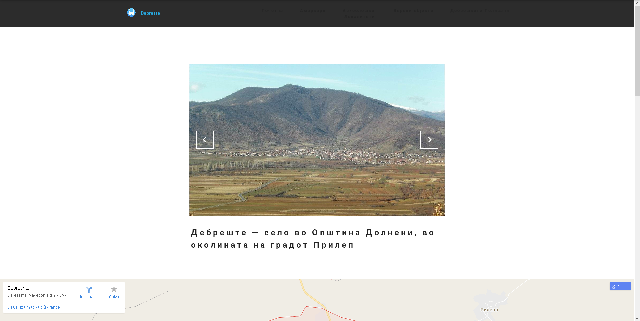
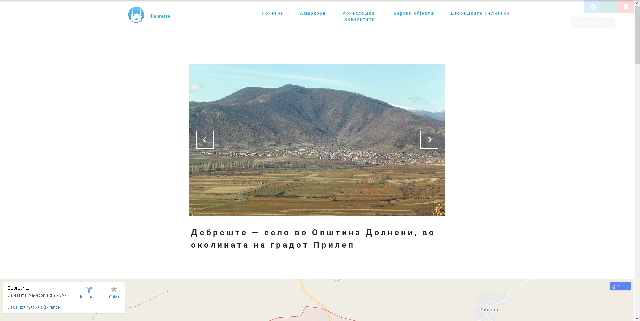
BlueLetters

Changed region(s): [[0.0, 0.0, 1.0, 0.0935], [0.9688, 0.1869, 1.0, 0.3115]]

diff --git a/index.html b/index.html
@@ -37,7 +37,7 @@
                 <div class="mbr-navbar__column mbr-navbar__menu">
                     <nav class="mbr-navbar__menu-box mbr-navbar__menu-box--inline-right">
                         <div class="mbr-navbar__column">
-                            <ul class="mbr-navbar__items mbr-navbar__items--right float-left mbr-buttons mbr-buttons--freeze mbr-buttons--right btn-decorator mbr-buttons--active mbr-buttons--only-links"><li class="mbr-navbar__item"><a class="mbr-buttons__link btn text-black" href="index.html">Почетна</a></li> <li class="mbr-navbar__item"><a class="mbr-buttons__link btn text-black" href="Amarkord.html">Амаркорд</a></li> <li class="mbr-navbar__item"><a class="mbr-buttons__link btn text-black" href="Arheoloski.html">Археолошки <br>Локалитети</a></li> <li class="mbr-navbar__item"><a class="mbr-buttons__link btn text-black" href="VerskiObj.html">Верски објекти</a></li> <li class="mbr-navbar__item"><a class="mbr-buttons__link btn text-black" href="DebreskiPelivani.html">Дебрешките Пеливани</a></li> </ul>                            
+                            <ul class="mbr-navbar__items mbr-navbar__items--right float-left mbr-buttons mbr-buttons--freeze mbr-buttons--right btn-decorator mbr-buttons--active mbr-buttons--only-links"><li class="mbr-navbar__item"><a class="mbr-buttons__link btn text-info" href="index.html">Почетна</a></li> <li class="mbr-navbar__item"><a class="mbr-buttons__link btn text-info" href="Amarkord.html">Амаркорд</a></li> <li class="mbr-navbar__item"><a class="mbr-buttons__link btn text-info" href="Arheoloski.html">Археолошки <br>Локалитети</a></li> <li class="mbr-navbar__item"><a class="mbr-buttons__link btn text-info" href="VerskiObj.html">Верски објекти</a></li> <li class="mbr-navbar__item"><a class="mbr-buttons__link btn text-info" href="DebreskiPelivani.html">Дебрешките Пеливани</a></li> </ul>                            
                             
                         </div>
                     </nav>
@@ -47,7 +47,7 @@
     </div>
 </section>
 
-<section class="engine"><a rel="external" href="https://mobirise.com">mobirise.com</a></section><section class="mbr-slider mbr-section mbr-section--no-padding carousel slide mbr-after-navbar" data-ride="carousel" data-wrap="true" data-interval="5000" id="slider2-1">
+<section class="engine"><a rel="external" href="https://mobirise.com">https://mobirise.com/</a></section><section class="mbr-slider mbr-section mbr-section--no-padding carousel slide mbr-after-navbar" data-ride="carousel" data-wrap="true" data-interval="5000" id="slider2-1">
     <div class="mbr-section__container container article-slider mbr-section__container--first">
         <div class=" col-sm-8 col-sm-offset-2">
             

diff --git a/VerskiObj.html b/VerskiObj.html
@@ -34,7 +34,7 @@
                 <div class="mbr-navbar__column mbr-navbar__menu">
                     <nav class="mbr-navbar__menu-box mbr-navbar__menu-box--inline-right">
                         <div class="mbr-navbar__column">
-                            <ul class="mbr-navbar__items mbr-navbar__items--right float-left mbr-buttons mbr-buttons--freeze mbr-buttons--right btn-decorator mbr-buttons--active mbr-buttons--only-links"><li class="mbr-navbar__item"><a class="mbr-buttons__link btn text-black" href="index.html">Почетна</a></li> <li class="mbr-navbar__item"><a class="mbr-buttons__link btn text-black" href="Amarkord.html">Амаркорд</a></li> <li class="mbr-navbar__item"><a class="mbr-buttons__link btn text-black" href="Arheoloski.html">Археолошки <br>Локалитети</a></li> <li class="mbr-navbar__item"><a class="mbr-buttons__link btn text-black" href="VerskiObj.html">Верски објекти</a></li> <li class="mbr-navbar__item"><a class="mbr-buttons__link btn text-black" href="DebreskiPelivani.html">Дебрешките Пеливани</a></li> </ul>                            
+                            <ul class="mbr-navbar__items mbr-navbar__items--right float-left mbr-buttons mbr-buttons--freeze mbr-buttons--right btn-decorator mbr-buttons--active mbr-buttons--only-links"><li class="mbr-navbar__item"><a class="mbr-buttons__link btn text-info" href="index.html">Почетна</a></li> <li class="mbr-navbar__item"><a class="mbr-buttons__link btn text-info" href="Amarkord.html">Амаркорд</a></li> <li class="mbr-navbar__item"><a class="mbr-buttons__link btn text-info" href="Arheoloski.html">Археолошки <br>Локалитети</a></li> <li class="mbr-navbar__item"><a class="mbr-buttons__link btn text-info" href="VerskiObj.html">Верски објекти</a></li> <li class="mbr-navbar__item"><a class="mbr-buttons__link btn text-info" href="DebreskiPelivani.html">Дебрешките Пеливани</a></li> </ul>                            
                             
                         </div>
                     </nav>
@@ -44,7 +44,7 @@
     </div>
 </section>
 
-<section class="engine"><a rel="external" href="https://mobirise.com">https://mobirise.com/</a></section><section class="mbr-section mbr-after-navbar" id="content1-10">
+<section class="engine"><a rel="external" href="https://mobirise.com">Mobirise Site Maker</a></section><section class="mbr-section mbr-after-navbar" id="content1-10">
     <div class="mbr-section__container container mbr-section__container--first">
         <div class="row">
             <div class="mbr-article mbr-article--wysiwyg col-sm-8 col-sm-offset-2"><p><strong>Во село Дебреште постојат 4 Џамии и 1 Црква&nbsp;</strong></p></div>

diff --git a/DebreskiPelivani.html b/DebreskiPelivani.html
@@ -36,7 +36,7 @@
                 <div class="mbr-navbar__column mbr-navbar__menu">
                     <nav class="mbr-navbar__menu-box mbr-navbar__menu-box--inline-right">
                         <div class="mbr-navbar__column">
-                            <ul class="mbr-navbar__items mbr-navbar__items--right float-left mbr-buttons mbr-buttons--freeze mbr-buttons--right btn-decorator mbr-buttons--active mbr-buttons--only-links"><li class="mbr-navbar__item"><a class="mbr-buttons__link btn text-black" href="index.html">Почетна</a></li> <li class="mbr-navbar__item"><a class="mbr-buttons__link btn text-black" href="Amarkord.html">Амаркорд</a></li> <li class="mbr-navbar__item"><a class="mbr-buttons__link btn text-black" href="Arheoloski.html">Археолошки <br>Локалитети</a></li> <li class="mbr-navbar__item"><a class="mbr-buttons__link btn text-black" href="VerskiObj.html">Верски објекти</a></li> <li class="mbr-navbar__item"><a class="mbr-buttons__link btn text-black" href="DebreskiPelivani.html">Дебрешките Пеливани</a></li> </ul>                            
+                            <ul class="mbr-navbar__items mbr-navbar__items--right float-left mbr-buttons mbr-buttons--freeze mbr-buttons--right btn-decorator mbr-buttons--active mbr-buttons--only-links"><li class="mbr-navbar__item"><a class="mbr-buttons__link btn text-info" href="index.html">Почетна</a></li> <li class="mbr-navbar__item"><a class="mbr-buttons__link btn text-info" href="Amarkord.html">Амаркорд</a></li> <li class="mbr-navbar__item"><a class="mbr-buttons__link btn text-info" href="Arheoloski.html">Археолошки <br>Локалитети</a></li> <li class="mbr-navbar__item"><a class="mbr-buttons__link btn text-info" href="VerskiObj.html">Верски објекти</a></li> <li class="mbr-navbar__item"><a class="mbr-buttons__link btn text-info" href="DebreskiPelivani.html">Дебрешките Пеливани</a></li> </ul>                            
                             
                         </div>
                     </nav>
@@ -46,7 +46,7 @@
     </div>
 </section>
 
-<section class="engine"><a rel="external" href="https://mobirise.com">Web Site Creator</a></section><section class="mbr-section mbr-after-navbar" id="header3-13">
+<section class="engine"><a rel="external" href="https://mobirise.com">Mobirise</a></section><section class="mbr-section mbr-after-navbar" id="header3-13">
     <div class="mbr-section__container container mbr-section__container--isolated">
         <div class="mbr-header mbr-header--wysiwyg row">
             <div class="col-sm-8 col-sm-offset-2">

diff --git a/Amarkord.html b/Amarkord.html
@@ -36,7 +36,7 @@
                 <div class="mbr-navbar__column mbr-navbar__menu">
                     <nav class="mbr-navbar__menu-box mbr-navbar__menu-box--inline-right">
                         <div class="mbr-navbar__column">
-                            <ul class="mbr-navbar__items mbr-navbar__items--right float-left mbr-buttons mbr-buttons--freeze mbr-buttons--right btn-decorator mbr-buttons--active mbr-buttons--only-links"><li class="mbr-navbar__item"><a class="mbr-buttons__link btn text-black" href="index.html">Почетна</a></li> <li class="mbr-navbar__item"><a class="mbr-buttons__link btn text-black" href="Amarkord.html">Амаркорд</a></li> <li class="mbr-navbar__item"><a class="mbr-buttons__link btn text-black" href="Arheoloski.html">Археолошки <br>Локалитети</a></li> <li class="mbr-navbar__item"><a class="mbr-buttons__link btn text-black" href="VerskiObj.html">Верски објекти</a></li> <li class="mbr-navbar__item"><a class="mbr-buttons__link btn text-black" href="DebreskiPelivani.html">Дебрешките Пеливани</a></li> </ul>                            
+                            <ul class="mbr-navbar__items mbr-navbar__items--right float-left mbr-buttons mbr-buttons--freeze mbr-buttons--right btn-decorator mbr-buttons--active mbr-buttons--only-links"><li class="mbr-navbar__item"><a class="mbr-buttons__link btn text-info" href="index.html">Почетна</a></li> <li class="mbr-navbar__item"><a class="mbr-buttons__link btn text-info" href="Amarkord.html">Амаркорд</a></li> <li class="mbr-navbar__item"><a class="mbr-buttons__link btn text-info" href="Arheoloski.html">Археолошки <br>Локалитети</a></li> <li class="mbr-navbar__item"><a class="mbr-buttons__link btn text-info" href="VerskiObj.html">Верски објекти</a></li> <li class="mbr-navbar__item"><a class="mbr-buttons__link btn text-info" href="DebreskiPelivani.html">Дебрешките Пеливани</a></li> </ul>                            
                             
                         </div>
                     </nav>
@@ -46,7 +46,7 @@
     </div>
 </section>
 
-<section class="engine"><a rel="external" href="https://mobirise.com">Mobirise Web Site Builder</a></section><section class="mbr-section mbr-after-navbar" id="video2-f">
+<section class="engine"><a rel="external" href="https://mobirise.com">https://mobirise.com/</a></section><section class="mbr-section mbr-after-navbar" id="video2-f">
     <div class="mbr-section__container container mbr-section__container--first">
         <div class="row">
             <div class="col-sm-8 col-sm-offset-2">

diff --git a/Arheoloski.html b/Arheoloski.html
@@ -34,7 +34,7 @@
                 <div class="mbr-navbar__column mbr-navbar__menu">
                     <nav class="mbr-navbar__menu-box mbr-navbar__menu-box--inline-right">
                         <div class="mbr-navbar__column">
-                            <ul class="mbr-navbar__items mbr-navbar__items--right float-left mbr-buttons mbr-buttons--freeze mbr-buttons--right btn-decorator mbr-buttons--active mbr-buttons--only-links"><li class="mbr-navbar__item"><a class="mbr-buttons__link btn text-black" href="index.html">Почетна</a></li> <li class="mbr-navbar__item"><a class="mbr-buttons__link btn text-black" href="Amarkord.html">Амаркорд</a></li> <li class="mbr-navbar__item"><a class="mbr-buttons__link btn text-black" href="Arheoloski.html">Археолошки <br>Локалитети</a></li> <li class="mbr-navbar__item"><a class="mbr-buttons__link btn text-black" href="VerskiObj.html">Верски објекти</a></li> <li class="mbr-navbar__item"><a class="mbr-buttons__link btn text-black" href="DebreskiPelivani.html">Дебрешките Пеливани</a></li> </ul>                            
+                            <ul class="mbr-navbar__items mbr-navbar__items--right float-left mbr-buttons mbr-buttons--freeze mbr-buttons--right btn-decorator mbr-buttons--active mbr-buttons--only-links"><li class="mbr-navbar__item"><a class="mbr-buttons__link btn text-info" href="index.html">Почетна</a></li> <li class="mbr-navbar__item"><a class="mbr-buttons__link btn text-info" href="Amarkord.html">Амаркорд</a></li> <li class="mbr-navbar__item"><a class="mbr-buttons__link btn text-info" href="Arheoloski.html">Археолошки <br>Локалитети</a></li> <li class="mbr-navbar__item"><a class="mbr-buttons__link btn text-info" href="VerskiObj.html">Верски објекти</a></li> <li class="mbr-navbar__item"><a class="mbr-buttons__link btn text-info" href="DebreskiPelivani.html">Дебрешките Пеливани</a></li> </ul>                            
                             
                         </div>
                     </nav>
@@ -44,7 +44,7 @@
     </div>
 </section>
 
-<section class="engine"><a rel="external" href="https://mobirise.com">Site Creator</a></section><section class="mbr-section mbr-after-navbar" id="image2-i">
+<section class="engine"><a rel="external" href="https://mobirise.com">Mobirise</a></section><section class="mbr-section mbr-after-navbar" id="image2-i">
     <div class="mbr-section__container container mbr-section__container--first">
         <div class="row">
             <div class="col-sm-8 col-sm-offset-2">

diff --git a/assets/mobirise/css/mbr-additional.css b/assets/mobirise/css/mbr-additional.css
@@ -6,12 +6,12 @@
 	font-size: 16px;
 }
 &.mbr-navbar--stuck .mbr-navbar__section {
-	background: #2c2c2c;
+	background: #ffffff;
 }
 .mbr-navbar__section {
 }
 .mbr-navbar__hamburger {
-	color: #ffffff;
+	color: #27aae0;
 }
 .mbr-brand__name a {
 	font-size: 25px;
@@ -115,10 +115,10 @@ H3 {
   font-size: 16px;
 }
 #ext_menu-a.mbr-navbar--stuck .mbr-navbar__section {
-  background: #efefef;
+  background: #ffffff;
 }
 #ext_menu-a .mbr-navbar__hamburger {
-  color: #000000;
+  color: #27aae0;
 }
 #ext_menu-a .mbr-brand__name a {
   font-size: 25px;
